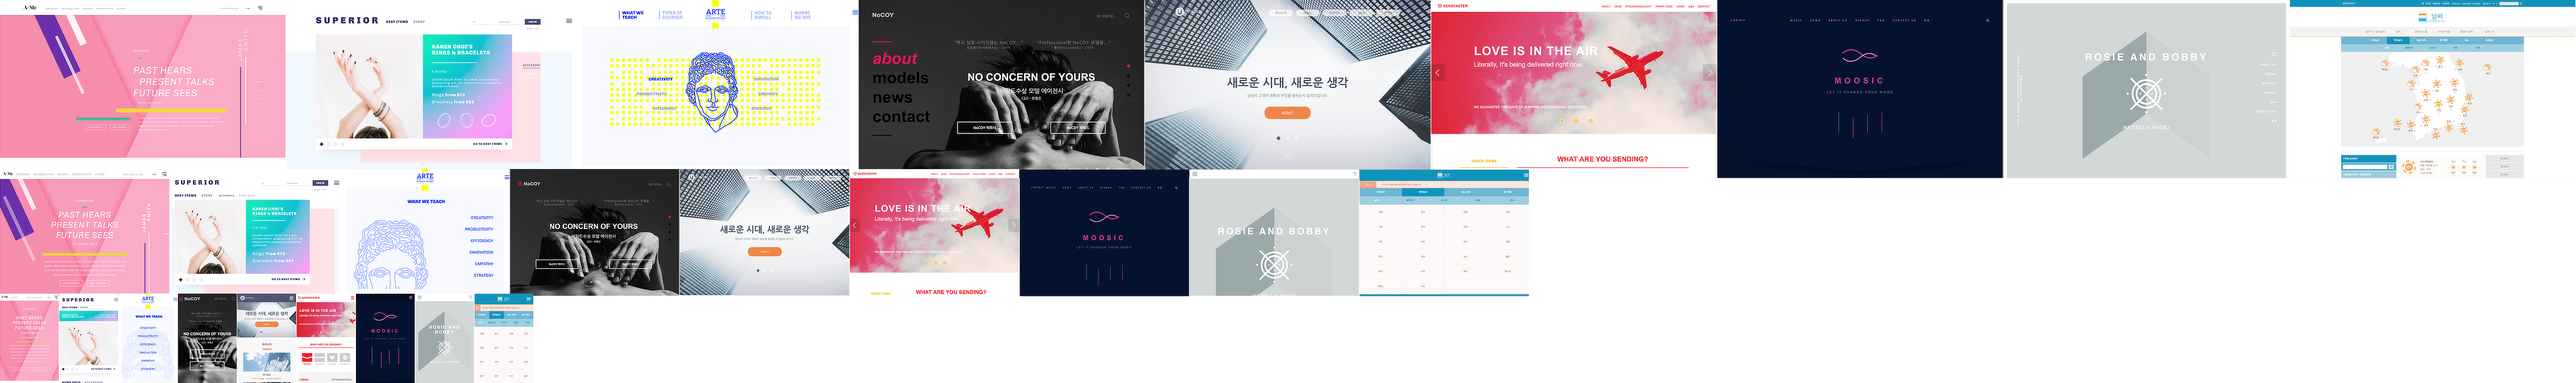
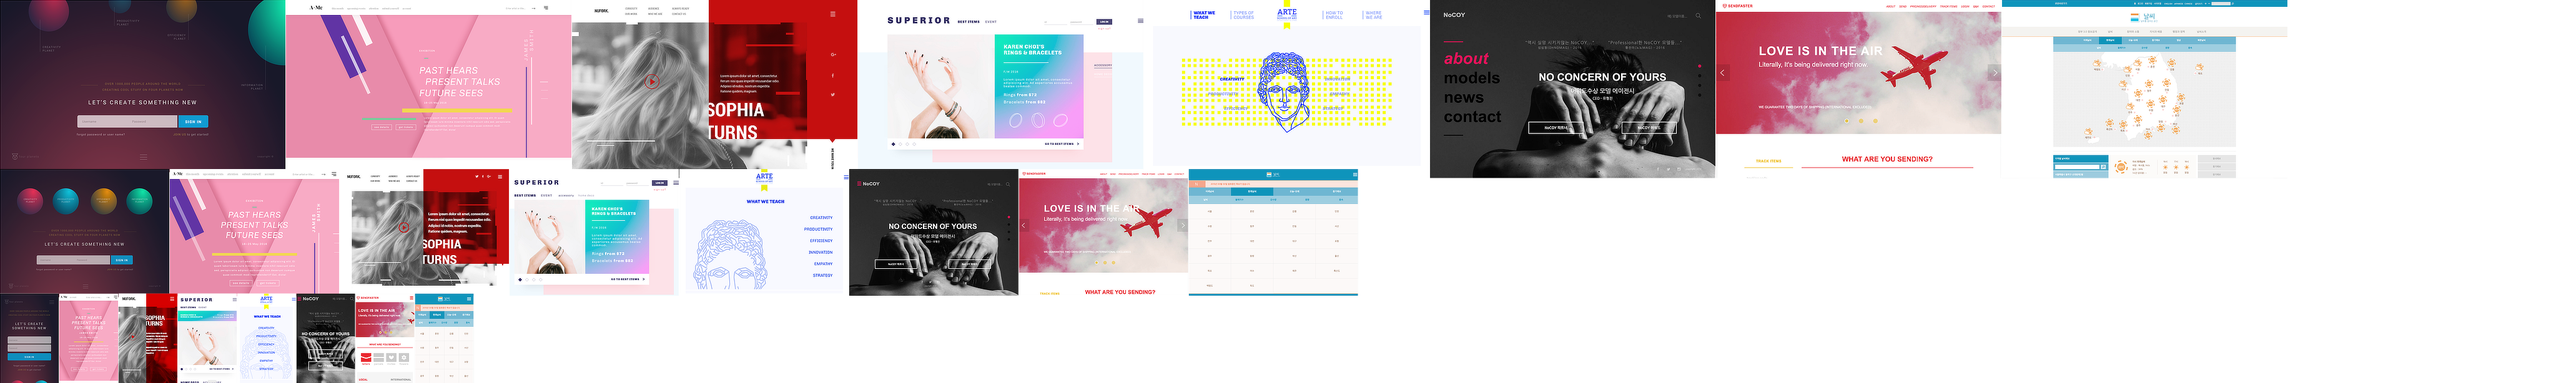
new web sites

diff --git a/index_ko.html b/index_ko.html
@@ -225,8 +225,48 @@
 
 							<h1 class="hidden">Work</h1>
 							<ul>
-								<li><a href="" class="workOn">AMe</a>
+								<li><a href="" class="workOn">Four Planets</a>
 									<div class="eachWork eachOn">
+										<div class="description">
+											<div class="de1">
+												<h2>Four Planets</h2>
+												<p class="langKor">100% 개인작업</p>
+												<span class="underline"></span>
+											</div>
+											<div class="de2">
+												<h3 class="hidden">어떻게 만들어 졌는지</h3>
+												<p>
+													HTML5 <span class="dot"></span>
+													CSS3 <span class="dot removeInBig"></span>
+													jQuery <span class="dot"></span>
+													responsive
+												</p>
+												<span class="underline"></span>
+											</div>
+											<div class="de3">
+												<h3 class="hidden">회사소개와 디자인 디렉션 설명</h3>
+												<p class"langKor">Demographics: 17 to 40. <span class="break"></span>
+													Four Planets은 다양한 분야의 전문가들이 모여 콜라보레이션을 하였을때 발생할 수 있는 문제점을 빠르게 보완하고 작업할 수 있게 도움을 주는 플랫폼입니다. 
+												</p>
+											</div>
+											<div class="de4">
+												<h3 class="hidden">링크</h3>
+												<p>
+													<a href="http://iamtrig.github.io/ame/index.html" target="_blank" title="Open In New Window" class="linkIcon">
+														<span class="iconBg">
+															<svg width="16px" height="16px" viewBox="0 0 17 15" version="1.1" xmlns="http://www.w3.org/2000/svg" xmlns:xlink="http://www.w3.org/1999/xlink" xml:space="preserve" style="fill-rule:evenodd;clip-rule:evenodd;stroke-linecap:square;stroke-miterlimit:1.41421;"><clipPath id="_clip1"><rect id="Artboard1" x="0" y="0" width="16.101" height="14.933"/></clipPath><g clip-path="url(#_clip1)"><g><path d="M1.186,8.154l6.863,-6.91l6.862,6.91" style="fill:none;stroke-width:1.5px;stroke:#4e00ff;"/><path d="M3.483,6.482l0,7.627l2.879,0l0,-4.114l3.749,0l0,4.114l2.604,0l0,-7.627" style="fill:none;stroke-width:1.5px;stroke:#4e00ff;"/></g></g></svg>
+														</span>
+														<span class="langKor">사이트 가기</span>
+													</a>
+													<a href=""></a>
+												</p>
+											</div>
+										</div>
+									</div>
+									
+								</li>
+								<li><a href="" class="">AMe</a>
+									<div class="eachWork">
 										<div class="description">
 											<div class="de1">
 												<h2>AMe</h2>
@@ -247,6 +287,46 @@
 												<h3 class="hidden">회사소개와 디자인 디렉션 설명</h3>
 												<p class"langKor">Demographics: 17 to 40. <span class="break"></span>
 													AMe는 이벤트 가이드로 사용자 주변에 일어나고 있는 예술과 관련된 이벤트를 알려주는 사이트이며, 무명 아티스트 또한 금전적으로 서포트 해주는 회사입니다. 
+												</p>
+											</div>
+											<div class="de4">
+												<h3 class="hidden">링크</h3>
+												<p>
+													<a href="http://iamtrig.github.io/ame/index.html" target="_blank" title="Open In New Window" class="linkIcon">
+														<span class="iconBg">
+															<svg width="16px" height="16px" viewBox="0 0 17 15" version="1.1" xmlns="http://www.w3.org/2000/svg" xmlns:xlink="http://www.w3.org/1999/xlink" xml:space="preserve" style="fill-rule:evenodd;clip-rule:evenodd;stroke-linecap:square;stroke-miterlimit:1.41421;"><clipPath id="_clip1"><rect id="Artboard1" x="0" y="0" width="16.101" height="14.933"/></clipPath><g clip-path="url(#_clip1)"><g><path d="M1.186,8.154l6.863,-6.91l6.862,6.91" style="fill:none;stroke-width:1.5px;stroke:#4e00ff;"/><path d="M3.483,6.482l0,7.627l2.879,0l0,-4.114l3.749,0l0,4.114l2.604,0l0,-7.627" style="fill:none;stroke-width:1.5px;stroke:#4e00ff;"/></g></g></svg>
+														</span>
+														<span class="langKor">사이트 가기</span>
+													</a>
+													<a href=""></a>
+												</p>
+											</div>
+										</div>
+									</div>
+									
+								</li>
+								<li><a href="" class="">NUFORK.</a>
+									<div class="eachWork">
+										<div class="description">
+											<div class="de1">
+												<h2>NUFORK.</h2>
+												<p class="langKor">100% 개인작업</p>
+												<span class="underline"></span>
+											</div>
+											<div class="de2">
+												<h3 class="hidden">어떻게 만들어 졌는지</h3>
+												<p>
+													HTML5 <span class="dot"></span>
+													CSS3 <span class="dot removeInBig"></span>
+													jQuery <span class="dot"></span>
+													responsive
+												</p>
+												<span class="underline"></span>
+											</div>
+											<div class="de3">
+												<h3 class="hidden">회사소개와 디자인 디렉션 설명</h3>
+												<p class"langKor">Demographics: 17 to 40. <span class="break"></span>
+													NUFORK.는 광고 에이전시이며, 모션 그래픽과 프린팅을 다루고 있습니다. 디자인은 심플하고 레드를 사용하여 강조를 주었습니다.
 												</p>
 											</div>
 											<div class="de4">
@@ -382,7 +462,7 @@
 										</div>
 									</div>
 								</li>
-								<li><a href="">Ucompany</a>
+<!-- 								<li><a href="">Ucompany</a>
 									<div class="eachWork">
 										<div class="description">
 											<div class="de1">
@@ -420,7 +500,7 @@
 											</div>
 										</div>
 									</div>
-								</li>
+								</li> -->
 								<li><a href="">SendFaster</a>
 									<div class="eachWork">
 										<div class="description">
@@ -460,7 +540,7 @@
 										</div>
 									</div>
 								</li>
-								<li><a href="">Moosic</a>
+<!-- 								<li><a href="">Moosic</a>
 									<div class="eachWork">
 										<div class="description">
 											<div class="de1">
@@ -537,7 +617,7 @@
 											</div>
 										</div>
 									</div>
-								</li>
+								</li> -->
 								<li><a href="" class="langKor">기상청</a>
 									<div class="eachWork">
 										<div class="description">

diff --git a/index.html b/index.html
@@ -219,9 +219,50 @@
 						<div class="group1">
 
 							<h1 class="hidden">Work</h1>
+
 							<ul>
-								<li><a href="" class="workOn">AMe</a>
+								<li><a href="" class="workOn">Four Planets</a>
 									<div class="eachWork eachOn">
+										<div class="description">
+											<div class="de1">
+												<h2>Four Planets</h2>
+												<p>Platform</p>
+												<span class="underline"></span>
+											</div>
+											<div class="de2">
+												<h3 class="hidden">How it was built</h3>
+												<p>
+													HTML5 <span class="dot"></span>
+													CSS3 <span class="dot removeInBig"></span>
+													jQuery <span class="dot"></span>
+													responsive
+												</p>
+												<span class="underline"></span>
+											</div>
+											<div class="de3">
+												<h3 class="hidden">What it was for</h3>
+												<p>Demographics: 15 to 35. <span class="break"></span>
+													This platform was created for professionals to come together and try to finish a project efficiently. 
+												</p>
+											</div>
+											<div class="de4">
+												<h3 class="hidden">Links</h3>
+												<p>
+													<a href="http://iamtrig.github.io/fourPlanets/index.html" target="_blank" title="Open In New Window" class="linkIcon">
+														<span class="iconBg">
+															<svg width="16px" height="16px" viewBox="0 0 17 15" version="1.1" xmlns="http://www.w3.org/2000/svg" xmlns:xlink="http://www.w3.org/1999/xlink" xml:space="preserve" style="fill-rule:evenodd;clip-rule:evenodd;stroke-linecap:square;stroke-miterlimit:1.41421;"><clipPath id="_clip1"><rect id="Artboard1" x="0" y="0" width="16.101" height="14.933"/></clipPath><g clip-path="url(#_clip1)"><g><path d="M1.186,8.154l6.863,-6.91l6.862,6.91" style="fill:none;stroke-width:1.5px;stroke:#4e00ff;"/><path d="M3.483,6.482l0,7.627l2.879,0l0,-4.114l3.749,0l0,4.114l2.604,0l0,-7.627" style="fill:none;stroke-width:1.5px;stroke:#4e00ff;"/></g></g></svg>
+														</span>
+														<span>Visit the site</span>
+													</a>
+													<a href=""></a>
+												</p>
+											</div>
+										</div>
+									</div>
+									
+								</li>
+								<li><a href="" class="">AMe</a>
+									<div class="eachWork">
 										<div class="description">
 											<div class="de1">
 												<h2>AMe</h2>
@@ -259,6 +300,46 @@
 										</div>
 									</div>
 									
+								</li>
+								<li><a href="">NUFORK.</a>
+									<div class="eachWork">
+										<div class="description">
+											<div class="de1">
+												<h2>NUFORK.</h2>
+												<p>e-commerce company</p>
+												<span class="underline"></span>
+											</div>
+											<div class="de2">
+												<h3 class="hidden">How it was built</h3>
+												<p>
+													HTML5 <span class="dot"></span>
+													CSS3 <span class="dot removeInBig"></span>
+													jQuery <span class="dot"></span>
+													responsive
+												</p>
+												<span class="underline"></span>
+											</div>
+											<div class="de3">
+												<h3 class="hidden">What it was for</h3>
+												<p>Demographics: 25 to 40. <span class="break"></span>
+													It's an advertising agency. NUFORK. specializes in TV ads and printing.
+												</p>
+											</div>
+											<div class="de4">
+												<h3 class="hidden">Links</h3>
+												<p>
+													<a href="https://www.behance.net/gallery/41003899/NUFORK" target="_blank" title="Open In New Window" class="linkIcon">
+														<span class="iconBg behan">
+															<svg width="18px" height="17px" viewBox="0 0 25 25" version="1.1" xmlns="http://www.w3.org/2000/svg" xmlns:xlink="http://www.w3.org/1999/xlink" xml:space="preserve" style="fill-rule:evenodd;clip-rule:evenodd;stroke-linejoin:round;stroke-miterlimit:1.41421;"><g><path d="M9.376,11.037c0,0 2.132,-0.162 2.132,-2.714c0,-2.55 -1.446,-3.807 -3.657,-3.807l-7.574,-0.012l0,14.092l7.75,0c0,0 3.875,0.122 3.875,-4.228c0,0 0.285,-3.331 -2.526,-3.331ZM3.095,6.618l3.875,0c0,0 1.326,0.022 1.326,1.741c0,1.782 -1.326,1.782 -1.326,1.782l-3.875,0l0,-3.523ZM7.322,16.482l-4.227,0l0,-4.228l4.227,0c0,0 2.114,0.022 2.114,2.114c0,2.092 -1.809,2.114 -2.114,2.114Z" style="fill:#4e00ff;fill-rule:nonzero;"/><path d="M17.891,8.027c-5.293,0 -5.284,5.284 -5.284,5.284c0,0 -0.352,5.285 5.284,5.285c0,0 4.932,0 4.932,-4.228l-2.818,0c0,0 0,2.114 -2.114,2.114c0,0 -2.113,0 -2.113,-2.818c0,0 5.636,0 7.045,0c0,-1.41 0,-5.637 -4.932,-5.637ZM15.778,12.254c0,0 -0.047,-2.113 2.113,-2.113c2.16,0 2.114,2.113 2.114,2.113l-4.227,0Z" style="fill:#4e00ff;;fill-rule:nonzero;"/><rect x="15.073" y="5.913" width="5.637" height="1.409" style="fill:#4e00ff;"/></g></svg>
+
+														</span>
+														<span>See Design</span>
+													</a>
+													<a href=""></a>
+												</p>
+											</div>
+										</div>
+									</div>
 								</li>
 								<li><a href="">Superior</a>
 									<div class="eachWork">
@@ -377,7 +458,7 @@
 										</div>
 									</div>
 								</li>
-								<li><a href="">Ucompany</a>
+								<!-- <li><a href="">Ucompany</a>
 									<div class="eachWork">
 										<div class="description">
 											<div class="de1">
@@ -415,7 +496,7 @@
 											</div>
 										</div>
 									</div>
-								</li>
+								</li> -->
 								<li><a href="">SendFaster</a>
 									<div class="eachWork">
 										<div class="description">
@@ -455,7 +536,7 @@
 										</div>
 									</div>
 								</li>
-								<li><a href="">Moosic</a>
+								<!-- <li><a href="">Moosic</a>
 									<div class="eachWork">
 										<div class="description">
 											<div class="de1">
@@ -532,7 +613,7 @@
 											</div>
 										</div>
 									</div>
-								</li>
+								</li> -->
 								<li><a href="">Forecast</a>
 									<div class="eachWork">
 										<div class="description">

diff --git a/fourPlanets/information.html b/fourPlanets/information.html
@@ -15,12 +15,21 @@
 		<link rel="stylesheet" type="text/css" href="css/subStyle.css" />
 		<link rel="stylesheet" type="text/css" href="css/information.css" />
 
-		// <script type="text/javascript" src="https://code.jquery.com/jquery-3.0.0.min.js"></script>
+		<script type="text/javascript" src="https://code.jquery.com/jquery-3.0.0.min.js"></script>
 		<script type="text/javascript" src="js/jquery-1.11.3.js"></script>
 		<script type="text/javascript" src="https://cdnjs.cloudflare.com/ajax/libs/modernizr/2.8.3/modernizr.min.js"></script>
 		
 		<script type="text/javascript" src="js/subScript.js"></script>
+		<script>
+		  (function(i,s,o,g,r,a,m){i['GoogleAnalyticsObject']=r;i[r]=i[r]||function(){
+		  (i[r].q=i[r].q||[]).push(arguments)},i[r].l=1*new Date();a=s.createElement(o),
+		  m=s.getElementsByTagName(o)[0];a.async=1;a.src=g;m.parentNode.insertBefore(a,m)
+		  })(window,document,'script','https://www.google-analytics.com/analytics.js','ga');
 
+		  ga('create', 'UA-77448410-1', 'auto');
+		  ga('send', 'pageview');
+
+		</script>
 
 	</head>
 	<body>

diff --git a/fourPlanets/efficiency.html b/fourPlanets/efficiency.html
@@ -20,7 +20,17 @@
 		<script type="text/javascript" src="https://cdnjs.cloudflare.com/ajax/libs/modernizr/2.8.3/modernizr.min.js"></script>
 		
 		<script type="text/javascript" src="js/subScript.js"></script>
+		
+		<script>
+		  (function(i,s,o,g,r,a,m){i['GoogleAnalyticsObject']=r;i[r]=i[r]||function(){
+		  (i[r].q=i[r].q||[]).push(arguments)},i[r].l=1*new Date();a=s.createElement(o),
+		  m=s.getElementsByTagName(o)[0];a.async=1;a.src=g;m.parentNode.insertBefore(a,m)
+		  })(window,document,'script','https://www.google-analytics.com/analytics.js','ga');
 
+		  ga('create', 'UA-77448410-1', 'auto');
+		  ga('send', 'pageview');
+
+		</script>
 	</head>
 	<body>
 

diff --git a/fourPlanets/productivity.html b/fourPlanets/productivity.html
@@ -20,7 +20,16 @@
 		<script type="text/javascript" src="https://cdnjs.cloudflare.com/ajax/libs/modernizr/2.8.3/modernizr.min.js"></script>
 		
 		<script type="text/javascript" src="js/subScript.js"></script>
+		<script>
+		  (function(i,s,o,g,r,a,m){i['GoogleAnalyticsObject']=r;i[r]=i[r]||function(){
+		  (i[r].q=i[r].q||[]).push(arguments)},i[r].l=1*new Date();a=s.createElement(o),
+		  m=s.getElementsByTagName(o)[0];a.async=1;a.src=g;m.parentNode.insertBefore(a,m)
+		  })(window,document,'script','https://www.google-analytics.com/analytics.js','ga');
 
+		  ga('create', 'UA-77448410-1', 'auto');
+		  ga('send', 'pageview');
+
+		</script>
 
 	</head>
 	<body>

diff --git a/fourPlanets/index.html b/fourPlanets/index.html
@@ -19,7 +19,17 @@
 		<script type="text/javascript" src="https://cdnjs.cloudflare.com/ajax/libs/modernizr/2.8.3/modernizr.min.js"></script>
 		
 		<script type="text/javascript" src="js/main.js"></script>
+		
+		<script>
+		  (function(i,s,o,g,r,a,m){i['GoogleAnalyticsObject']=r;i[r]=i[r]||function(){
+		  (i[r].q=i[r].q||[]).push(arguments)},i[r].l=1*new Date();a=s.createElement(o),
+		  m=s.getElementsByTagName(o)[0];a.async=1;a.src=g;m.parentNode.insertBefore(a,m)
+		  })(window,document,'script','https://www.google-analytics.com/analytics.js','ga');
 
+		  ga('create', 'UA-77448410-1', 'auto');
+		  ga('send', 'pageview');
+
+		</script>
 	
 
 

diff --git a/fourPlanets/creativity.html b/fourPlanets/creativity.html
@@ -21,11 +21,16 @@
 		
 		<script type="text/javascript" src="js/subScript.js"></script>
 
+		<script>
+		  (function(i,s,o,g,r,a,m){i['GoogleAnalyticsObject']=r;i[r]=i[r]||function(){
+		  (i[r].q=i[r].q||[]).push(arguments)},i[r].l=1*new Date();a=s.createElement(o),
+		  m=s.getElementsByTagName(o)[0];a.async=1;a.src=g;m.parentNode.insertBefore(a,m)
+		  })(window,document,'script','https://www.google-analytics.com/analytics.js','ga');
 
-		<style>
-		
+		  ga('create', 'UA-77448410-1', 'auto');
+		  ga('send', 'pageview');
 
-		</style>
+		</script>
 
 	</head>
 	<body>
